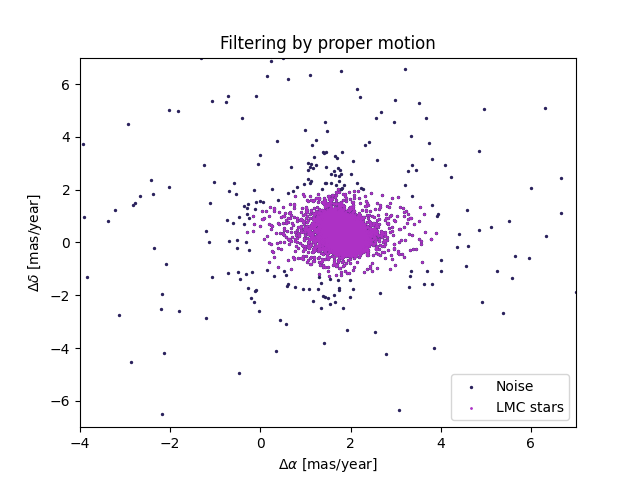
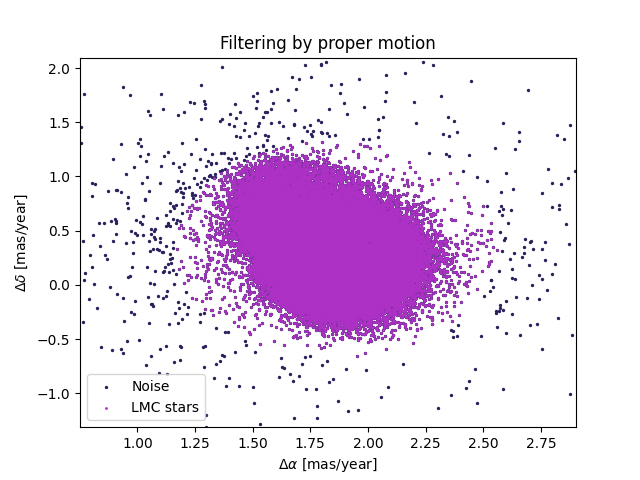
Beautiful rotation plots

diff --git a/DN2/main_LMC.py b/DN2/main_LMC.py
@@ -37,12 +37,14 @@ c1, c2, c3 = cmr.take_cmap_colors("cmr.gothic", 3, cmap_range=(0.2, 0.8), return
 source_id, ra, dec, parallax, pmra, pmdec, phot_g_mean_mag = \
     np.column_stack(np.genfromtxt("LMC_tc_rangemag5.csv", delimiter=",", skip_header=1))
 
+
 # ---- Proper motion filtering ----
-def elipse(pmra, pmdec, x, y, a, b):
+def ellipse(u, v, x, y, a, b):
+    """ Checks if (u, v) data point is in ellipse with center (x, y) and half axes a and b"""
     output = []
-    n = len(pmra)
+    n = len(u)
     for i in range(n):
-        if ((pmra[i] - x)**2)/a**2 + ((pmdec[i] - y)**2)/b**2 <= 1:
+        if ((u[i] - x) ** 2)/a**2 + ((v[i] - y) ** 2)/b**2 <= 1:
             output.append(i)
 
     return np.array(output)
@@ -50,10 +52,14 @@ def elipse(pmra, pmdec, x, y, a, b):
 
 x_coord = 1.86
 y_coord = 0.33
-filter = elipse(pmra, pmdec, x_coord, y_coord, 2.2, 1.7)
-pmra_f = np.take(pmra, filter)
-pmdec_f = np.take(pmdec, filter)
+filt = ellipse(pmra, pmdec, x_coord, y_coord, 0.7, 1)
+ra_f = np.take(ra, filt)
+dec_f = np.take(dec, filt)
+pmra_f = np.take(pmra, filt)
+pmdec_f = np.take(pmdec, filt)
 
+
+# ---- Proper motion filter plot ----
 plt.scatter(pmra, pmdec, s=2, c=c1, label="Noise")
 plt.scatter(pmra_f, pmdec_f, s=1, c=c2, label="LMC stars")
 plt.xlim(-4, 7)
@@ -65,19 +71,18 @@ plt.legend()
 plt.show()
 
 # ---- Proper motion quiver plot ----
-# pmra_median = np.median(pmra)
-# pmdec_median = np.median(pmdec)
-# pmra_sub = pmra - pmra_median
-# pmdec_sub = pmdec - pmdec_median
-#
-# C = np.hypot(pmra_sub, pmdec_sub)
-# # plt.scatter(pmra, pmdec, s=0.25, c=c2)
-#
-# plt.quiver(ra, dec, pmra_sub, pmdec_sub, C, scale=25, cmap="cmr.bubblegum", alpha=0.4)
-# plt.xlabel(r"$\alpha$ [$\degree$]")
-# plt.ylabel(r"$\delta$ [$\degree$]")
-# plt.title("Proper motions of LMC stars")
-# plt.show()
+pmra_n = pmra_f - np.median(pmra_f)
+pmdec_n = pmdec_f - np.median(pmdec_f)
+
+C = np.hypot(pmra_n, pmdec_n)
+
+plt.quiver(ra_f, dec_f, pmra_n, pmdec_n, C, width=0.002, headwidth=3, headlength=5,
+           scale=10, cmap="cmr.bubblegum", alpha=0.4)
+plt.xlabel(r"$\alpha$ [$\degree$]")
+plt.ylabel(r"$\delta$ [$\degree$]")
+plt.title("Rotation of LMC")
+plt.colorbar(label=r"$\Delta$ [mas/year]")
+plt.show()
 
 
 # ---- Stream plot (failed) ----
@@ -136,5 +141,5 @@ ui.shape = vi.shape = (ny, nx)
 # plot
 # fig, ax = plt.subplots(1, 1)
 # ax.hold(True)
-plt.streamplot(xi, yi, ui, vi, cmap="cmr.bubblegum")
+# plt.streamplot(xi, yi, ui, vi, cmap="cmr.bubblegum")
 plt.show()

diff --git a/DN2/main_SMC.py b/DN2/main_SMC.py
@@ -5,25 +5,51 @@ import cmasher as cmr
 c1, c2, c3 = cmr.take_cmap_colors("cmr.gothic", 3, cmap_range=(0.2, 0.8), return_fmt="hex")
 
 
-source_id, ra, dec, parallax, pmra, pmdec, phot_g_mean_mag = np.column_stack(np.genfromtxt("SMC_tc_rangemag5.csv", delimiter=",", skip_header=1))
+source_id, ra, dec, parallax, pmra, pmdec, phot_g_mean_mag = \
+    np.column_stack(np.genfromtxt("SMC_tc_rangemag5.csv", delimiter=",", skip_header=1))
 
-plt.scatter(pmra, pmdec, s=0.25, c=c2)
-plt.title("Proper motion of SMC stars")
+
+# ---- Proper motion filtering ----
+def ellipse(u, v, x, y, a, b):
+    """ Checks if (u, v) data point is in ellipse with center (x, y) and half axes a and b"""
+    output = []
+    n = len(u)
+    for i in range(n):
+        if ((u[i] - x) ** 2)/a**2 + ((v[i] - y) ** 2)/b**2 <= 1:
+            output.append(i)
+
+    return np.array(output)
+
+
+x_coord = 0.77
+y_coord = -1.26
+filt = ellipse(pmra, pmdec, x_coord, y_coord, 0.5, 0.3)
+ra_f = np.take(ra, filt)
+dec_f = np.take(dec, filt)
+pmra_f = np.take(pmra, filt)
+pmdec_f = np.take(pmdec, filt)
+
+
+# ---- Proper motion filter plot ----
+plt.scatter(pmra, pmdec, s=2, c=c1, label="Noise")
+plt.scatter(pmra_f, pmdec_f, s=1, c=c2, label="SMC stars")
+plt.xlim(-0.25, 1.75)
+plt.ylim(-2, -0.25)
+plt.title("Filtering by proper motion")
 plt.xlabel(r"$\Delta\alpha$ [mas/year]")
 plt.ylabel(r"$\Delta\delta$ [mas/year]")
+plt.legend()
 plt.show()
 
 # ---- Proper motion quiver plot ----
-pmra_median = np.median(pmra)
-pmdec_median = np.median(pmdec)
-pmra_sub = pmra - pmra_median
-pmdec_sub = pmdec - pmdec_median
+pmra_n = pmra_f - np.median(pmra_f)
+pmdec_n = pmdec_f - np.median(pmdec_f)
 
-C = np.hypot(pmra_sub, pmdec_sub)
-plt.title("Proper motions of SMC stars")
-# plt.scatter(pmra, pmdec, s=0.25, c=c2)
+C = np.hypot(pmra_n, pmdec_n)
 
-plt.quiver(ra, dec, pmra_sub, pmdec_sub, C, scale=50, cmap="cmr.bubblegum", alpha=0.4)
+plt.quiver(ra_f, dec_f, pmra_n, pmdec_n, C, width=0.004, scale=5, cmap="cmr.bubblegum", alpha=0.4)
 plt.xlabel(r"$\alpha$ [$\degree$]")
 plt.ylabel(r"$\delta$ [$\degree$]")
+plt.title("Rotation of SMC")
+plt.colorbar(label=r"$\Delta$ [mas/year]")
 plt.show()
